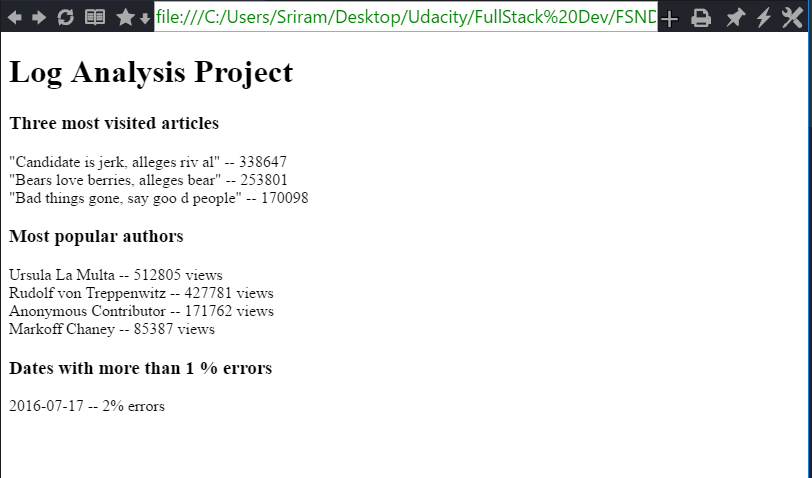
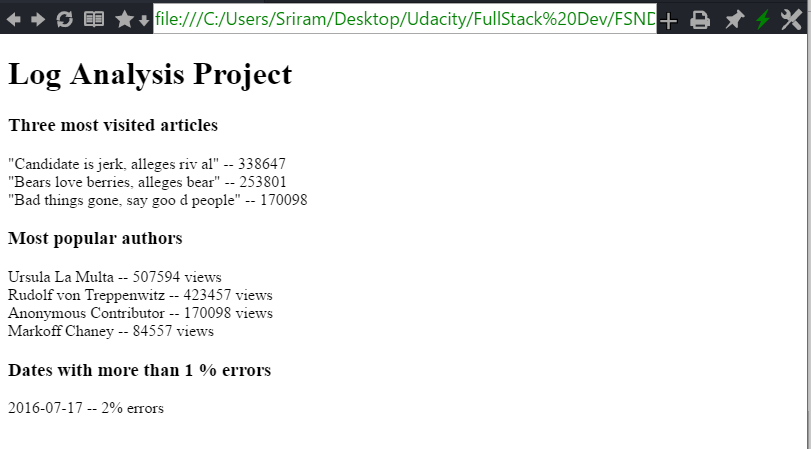
Updated to new results + PEP8 and SQL code fixes.

Changed region(s): [[0.0, 0.2183, 0.4007, 0.9354], [0.0, 0.0, 1.0, 1.0], [0.0, 0.1247, 0.3699, 0.2183]]

diff --git a/log_analysis_db.py b/log_analysis_db.py
@@ -1,26 +1,24 @@
 # log analysis
 import psycopg2
 
+
 # returns the 3 most visited articles
 def get_most_visited_articles():
+
     # connect to database
     conn = psycopg2.connect("dbname=news")
     # get cursor
     c = conn.cursor()
     # run query
-    query_path_counts = """SELECT log.path, COUNT(*) FROM log
-                    GROUP BY log.path HAVING log.path LIKE '%/article/%'
+    query_title_counts = """SELECT articles.title, COUNT(*)
+                    FROM log LEFT JOIN
+                    articles ON log.path LIKE '%' || articles.slug || '%'
+                    WHERE log.status = '200 OK' AND articles.title IS NOT NULL
+                    GROUP BY articles.title
                     ORDER BY COUNT(*) DESC LIMIT 3;
                     """
-    c.execute(query_path_counts) # gets the count top 3 paths
-    path_count_list = c.fetchall()
-
-    query_unique_article = """SELECT DISTINCT articles.slug, articles.title
-                        FROM articles;
-                        """
-    c.execute(query_unique_article)
-    articles_title_slug = dict(c.fetchall())
-
+    c.execute(query_title_counts)  # gets the count top 3 paths
+    title_count_list = c.fetchall()
     # close connection
     c.close()
     conn.close()
@@ -28,13 +26,12 @@ def get_most_visited_articles():
     # replace the path slugs with the actual article title and
     # create a readable string from the retrieved results
     text_statements = []
-    for path, count in path_count_list:
-        slug = path.split('/')[-1] # the last part of the path
-        article_title = articles_title_slug[slug]
-        return_text = '\"' + article_title + '\" -- ' + str(count)
+    for title, count in title_count_list:
+        return_text = '\"' + title + '\" -- ' + str(count)
         text_statements.append(return_text)
 
     return text_statements
+
 
 # returns most popular authors
 def get_most_popular_authors():
@@ -50,18 +47,21 @@ def get_most_popular_authors():
                             FROM authors as au, articles as art
                             WHERE au.id = art.author;
                             """
-    c.execute(query_author_article) # this will create the view
+    c.execute(query_author_article)  # this will create the view
 
     query_author_counts = """SELECT aa.name, COUNT(*)
                         FROM log LEFT JOIN author_article AS aa
                         ON log.path LIKE '%' || aa.slug || '%'
+                        WHERE log.status = '200 OK'
+                        AND aa.name IS NOT NULL
                         GROUP BY aa.name
                         ORDER BY COUNT(*) DESC;
                         """
     c.execute(query_author_counts)
     author_count_list = c.fetchall()
 
-    c.execute("DROP VIEW author_article;") # delete the view
+    c.execute("DROP VIEW author_article;")  # delete the view
+    conn.commit()
 
     # close connection
     c.close()
@@ -72,11 +72,12 @@ def get_most_popular_authors():
     for author, count in author_count_list:
         try:
             return_text = author + ' -- ' + str(count) + ' views'
-        except TypeError: # if author name doesnt exist
-            continue # skip to next entry
+        except TypeError:  # if author name doesnt exist
+            continue  # skip to next entry
         text_statements.append(return_text)
 
     return text_statements
+
 
 # returns the dates that had more than 1% of visits result in errors
 def get_dates_with_errors():
@@ -111,8 +112,9 @@ def get_dates_with_errors():
     c.execute(query_ratio)
     date_ratio_list = c.fetchall()
 
-    c.execute("DROP VIEW all_date;") # delete the view
-    c.execute("DROP VIEW bad_date;") # delete the view
+    c.execute("DROP VIEW all_date;")  # delete the view
+    c.execute("DROP VIEW bad_date;")  # delete the view
+    conn.commit()
 
     # close connection
     c.close()
@@ -123,8 +125,8 @@ def get_dates_with_errors():
     for date, ratio in date_ratio_list:
         try:
             return_text = str(date) + ' -- ' + str(int(ratio*100)) + '% errors'
-        except ValueError: # if ratio is invalid
-            continue # skip to next entry
+        except ValueError:  # if ratio is invalid
+            continue  # skip to next entry
         text_statements.append(return_text)
 
     return text_statements

diff --git a/log_analysis_server.py b/log_analysis_server.py
@@ -1,8 +1,10 @@
-from log_analysis_db import get_most_visited_articles, get_most_popular_authors, get_dates_with_errors
+#!/usr/bin/env python3
+from log_analysis_db import get_most_visited_articles, \
+                            get_most_popular_authors, get_dates_with_errors
 from flask import Flask
 
 
-app = Flask(__name__) # initialize Flask App
+app = Flask(__name__)  # initialize Flask App
 
 html_wrap = '''\
             <!DOCTYPE html>
@@ -31,6 +33,7 @@ html_wrap = '''\
 
 span_holder = '<span style="display: block;"> %s </span>'
 
+
 @app.route('/', methods=['GET'])
 def main():
     '''Main Page'''
@@ -47,17 +50,16 @@ def main():
         second_text += span_holder % entry
 
     # add in the dates with more than 1% errors
-    third =  get_dates_with_errors()
+    third = get_dates_with_errors()
     third_text = ""
     for entry in third:
         third_text += span_holder % entry
 
-    #print(third_text)
     # add these to the html wrapper
     html_page_to_serve = html_wrap % (first_text, second_text, third_text)
 
     return html_page_to_serve
 
 if __name__ == '__main__':
-    #print(main())
-    app.run(host='0.0.0.0', port=8888)
+    print(main())
+    app.run(host='0.0.0.0', port=8000)
